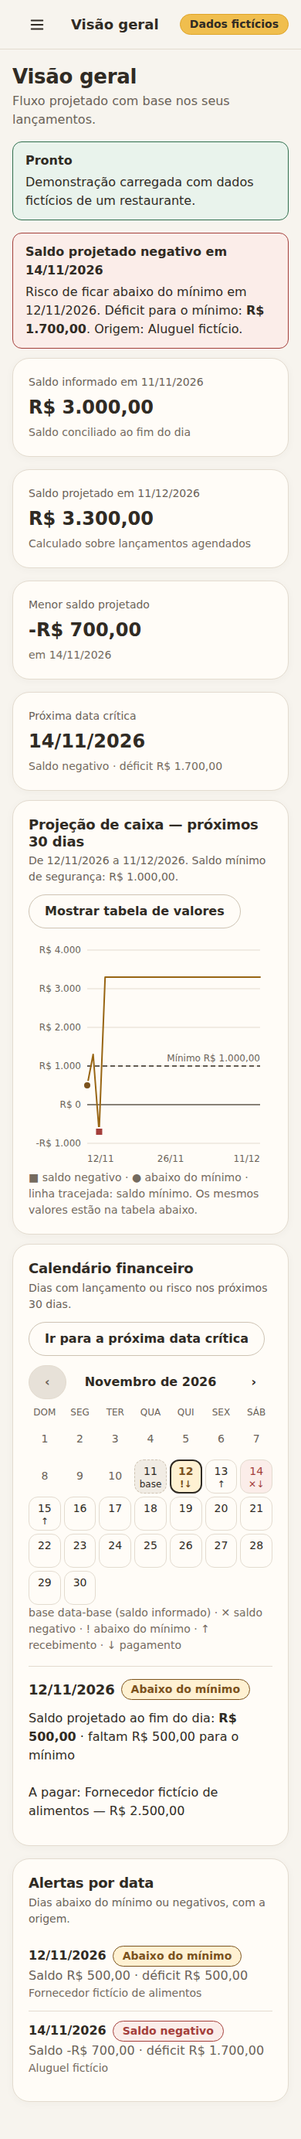
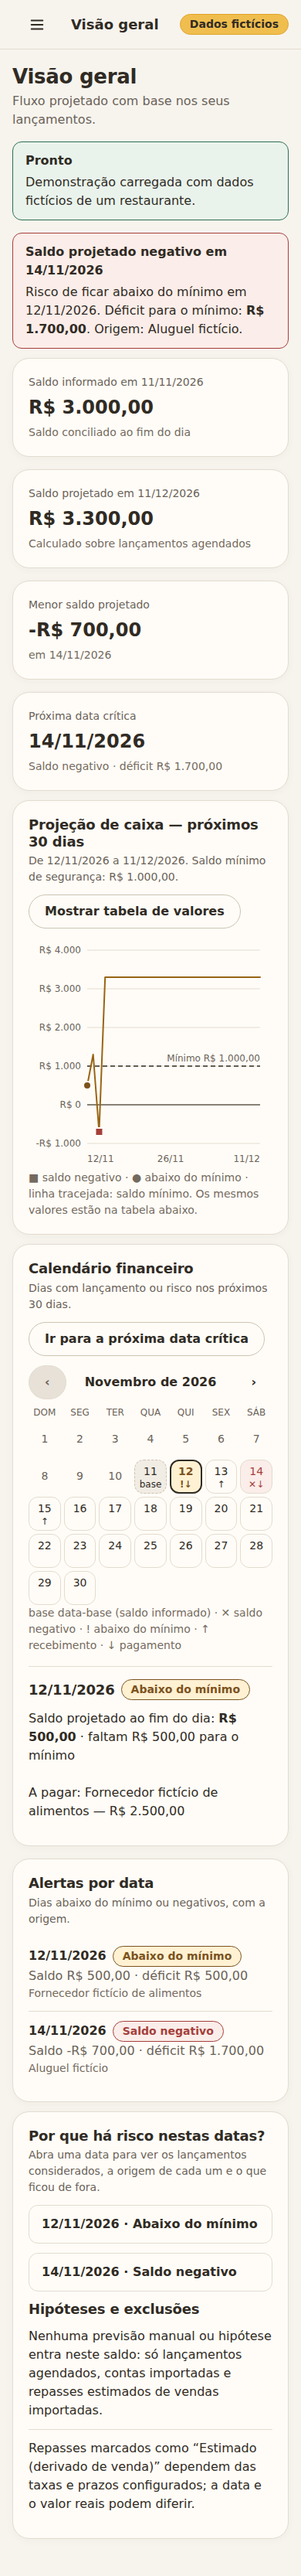
docs(evidencias): evidências e revisão visual da Sprint 2

diff --git a/docs/evidencias/s02.md b/docs/evidencias/s02.md
@@ -1,0 +1,47 @@
+# Evidências — Sprint 2 (vendas e recebimentos futuros)
+
+Todos os resultados vêm de execuções reais em 12/11/2026. "Declarado" = registro de quem executou; a verificação independente está no Git, no GitHub Actions e na reexecução dos comandos. O que não foi verificado consta como **não verificado**.
+
+**Ambiente:** VPS Ubuntu 24.04, Node 22, Docker 29.7.2, Playwright 1.65.0, Chromium headless. **Commit do código testado:** `500452e` (container `caixafuturo:500452e-dirty`; o sufixo `-dirty` decorre só das capturas PNG regeneradas pelo E2E, sem diferença em `src/`; o deploy final está registrado na seção 5).
+
+## 1. Decisão de produto (PEND-S02-001)
+O usuário decidiu em 12/11/2026 (ADR-0006): vínculo por coluna `referencia_venda`; par ambíguo conta só o importado; escopo 1:1 (parcelas e lotes = limitação documentada e sinalizada na UI). Detalhes e estados em [`ADR-0006`](../decisoes/0006-conciliacao-recebiveis.md); contratos `financeiro.md`, `importacao.md`, `previsoes.md` atualizados antes do código.
+
+## 2. Regressão e testes
+| Comando | Resultado |
+|---|---|
+| `npm run test:unit -- --run --coverage` | **16 arquivos, 363 testes passam** |
+| `npm run test:e2e` (build local) | **31/31 passam** (18 da S01 + 13 da S02) |
+| `E2E_BASE_URL=http://84.247.135.249:8084 E2E_EXPECT_INSECURE=1 npx playwright test` (container, IP público) | **31/31 passam**, `isSecureContext=false`, sem `crypto.subtle` |
+| `npx tsc --noEmit`, `npm run build` | OK |
+| `fluxo.py validar`, `tools/validar_fronteiras_tasks.py` | OK |
+
+**Cobertura (v8):** global **94,47% stmts · 88,56% branches · 92,48% funções · 95,96% linhas**. Código tocado pela S02 (19 arquivos, inclusive os modificados por inteiro: `domain/sales`, `domain/forecast`, `storage/salesRepository`, `validateSale`, `db`, `repository`, `csv`, `App`, `SalesPanel`, `SalesView`, `SettlementPanel`, `RiskExplanation`, `CashDashboard`, `ImportPreview`, `AppShell`, `salesDemo`): **95,33% stmts · 89,02% branches · 92,88% funções · 96,67% linhas**. Pior arquivo novo: `SettlementPanel` 91,0% stmts / 79,4% branches. Cobertura não prova correção: as contas dos testes foram feitas à mão (ver abaixo).
+
+**Testes escritos antes e vistos falhar** (módulo inexistente/ausente) em todas as tasks. **Verificações de mutação:** 1 em `importSales` (tirar o valor da assinatura de conflito derruba 2 testes) e 3 em `reconcile` (pendente soma, janela de 3 dias, decisão sobre venda já coberta: derrubam 4, 1 e 1 testes).
+
+**Erros que foram dos TESTES, não do app** (corrigidos no teste): conta à mão do débito (R$ 250,50 × 1,99% = 498 centavos, não 4.985); ordenação de vendas da mesma data por id-hash; V-1 a crédito D+30 cairia fora do horizonte de 30 dias; −700,00 + 73,51 + 153,62 = −472,87 (não −469,87); seletores `getByLabel('Dias')` por substring. **Achado real do app corrigido durante o trabalho:** a tabela de recebíveis ficava dominada por repasses históricos "Já no saldo inicial" (agora ocultos por padrão, com botão).
+
+**Instabilidade encontrada (S01, não relacionada às vendas):** 3 testes de `app.test.tsx` estouravam o timeout padrão de 5 s sob CPU disputada; `testTimeout: 20 s` os estabilizou (4 execuções simultâneas, 244/244). Um E2E da S01 falhou 1 vez em 31 execuções sem causa identificada na primeira rodada do dia (não reproduziu em 12 repetições).
+
+## 3. Funcionalidades verificadas
+- **Venda ≠ recebimento:** importar venda R$ 1.000,00 a crédito não altera o saldo; recebimento só na data de repasse, pelo líquido (E2E e unit).
+- **Importar duas vezes não duplica faturamento:** reimportar o mesmo CSV cria 0 vendas; mesmo identificador com valor diferente é conflito, sem sobrescrever.
+- **Taxa/prazo mudam data e valor do caixa:** crédito 3,99% D+30 → R$ 960,10 em 12/12 (fora dos 30 dias, saldo R$ 3.000,00); com 2,50% D+10 → R$ 975,00 em 22/11 e saldo R$ 3.975,00 a partir dessa data (conta independente: 100000 − 2500).
+- **Conciliação nas duas ordens (gate PEND-S02-001):** contas→vendas e vendas→contas dão exatamente os mesmos 30 saldos (E2E em contextos de navegador separados; valores conferidos por conta à mão: R$ 3.198,02 em 13/11; R$ 2.198,02 em 14/11; R$ 3.173,02 em 22/11 com **uma** disponibilidade de R$ 975,00). Reimportar ambos os arquivos e recarregar a página não altera nada.
+- **Ambiguidade:** conta sem referência + venda próxima → "Conciliação pendente", só a importada soma (R$ 3.975,00); "Conta independente de vendas" → R$ 4.950,00; "Desfazer decisão" e "Vincular a V-1" → R$ 3.975,00; persiste após recarregar. Referência enviada depois atualiza a conta existente sem duplicar.
+- **Lote (`V-1|V-2`) e parcelas:** sinalizados "não suportado" na tabela e em aviso fixo; vale a conta importada (R$ 4.100,00 = 3.000 + 1.100 em 22/11).
+- **Demonstração:** a demo da S01 segue 12/11 R$ 500 · 13/11 R$ 1.300 · 14/11 −R$ 700 · 15/11 R$ 3.300. Com as 84 vendas fictícias (R$ 14.580,00 brutos; média R$ 520,71/dia = 14.580,00/28; tendência estável) as 2 contas sem referência deixam 6 repasses pendentes e a projeção não muda; após decidir "independente" nas duas, 12/11 = R$ 573,51 (500,00 + 75,00 − 1,99%) e 14/11 = −R$ 472,87.
+- **Série curta:** 10 dias → aviso "Série curta: 10 dias de histórico"; < 7 dias com venda → "Histórico insuficiente" e nenhuma previsão; 28 dias → sem aviso.
+- **Projeção manual:** sempre "Hipótese manual — não é previsão validada" por linha, com aviso "Isto é uma hipótese", e não altera o saldo projetado; valor negativo recusado.
+- **Explicação de risco:** cada data de risco na Visão geral abre saldo de abertura, lançamentos (descrição, valor, origem: Manual / Importado / Demonstração / Estimado (derivado de venda)), saldo de fechamento, déficit; mais "Hipóteses e exclusões" e a lista "Não incluídos no saldo".
+- **Migração IndexedDB v1→v2:** banco v1 populado (configuração, 3 lançamentos incluindo liquidado, tipo do conjunto) abre em v2 sem perda; stores `sales` e `reconciliation` criadas; reabrir é idempotente (testado com `fake-indexeddb`). **Não verificado:** migração em IndexedDB real de um navegador com dados reais da S01 (o E2E sempre parte de contexto novo).
+- **Acessibilidade básica (Chromium):** todos os botões, campos e `summary` da nova vista têm nome acessível e altura ≥ 44 px nos 3 viewports; resolução de pendência e abertura da explicação por teclado (Enter); `<details>` nativos, estados por texto (não só cor).
+
+## 4. Limitações e itens não verificados
+1. **Alcance externo à porta 8084 (fora da VPS): não verificado** (os testes partiram da própria VPS). UFW não foi alterado.
+2. Só Chromium; Firefox, Safari/iOS e dispositivos reais: **não verificados**. Sem axe/Lighthouse nem leitor de tela: **não verificados**; contraste herdado dos tokens validados na S01, não medido nas novas telas.
+3. Parcelas, lotes, estornos, pagamento parcial, antecipação, dias úteis/feriados: **não suportados** (sinalizados). Prazo é em dias corridos; padrões de taxa/prazo são ilustrativos. Previsão não tem backtesting nem faixas (S03).
+4. Achados visuais da S01: **A** (título da topbar) agravado pelo rótulo mais longo ("Vendas e r…" a 390 px; o `h1` da página mostra o nome inteiro). **B** (tabelas largas rolam dentro do cartão no mobile): a tabela de recebíveis tem 9 colunas e rola internamente. **C**: sem estouro horizontal em 390 e 320 px; a 195 px a vista Vendas estoura (238 px) e a Visão geral também (218 px), como já documentado. Ver [`s02-visual.md`](s02-visual.md).
+5. HTTP por IP não é adequado a dados financeiros reais; IndexedDB não é backup.
+6. A S02 **não** está aprovada; a S03 não foi iniciada.

diff --git a/docs/evidencias/s02-visual.md b/docs/evidencias/s02-visual.md
@@ -1,0 +1,21 @@
+# Revisão visual — Sprint 2 (Chromium real)
+
+Capturas geradas pelo E2E (`tests/e2e/sales-flow.spec.ts`) em 12/11/2026 em [`capturas/`](capturas): `mobile-vendas.png` (390×844), `tablet-vendas.png` (768×1024), `desktop-vendas.png` (1440×900), `*-visao-geral-s02.png` (Visão geral com a explicação de riscos), `e2e-s02-conciliado.png`, `e2e-s02-pendente.png`, `e2e-s02-demo-vendas.png`, `e2e-s02-explicacao-risco.png`, `e2e-s02-vendas-regras.png`.
+
+## Verificado com asserções (não só visualmente)
+- Sem rolagem horizontal da página em 390, 768 e 1440 px nas vistas **Vendas e recebimentos** e **Visão geral** (com 84 vendas); também em 320 px (medido contra o container).
+- Zero erros de console e zero `pageerror` nos três viewports.
+- As três áreas aparecem na ordem **Faturamento bruto → Recebimentos previstos líquidos → Saldo projetado**, cada uma com `h2`.
+- Alvos de toque ≥ 44 px e nomes acessíveis em todos os controles visíveis; foco e teclado nos fluxos de pendência e explicação.
+
+## Observado nas capturas (revisão manual por quem executou)
+- Tema creme/areia/grafite/dourado da S01 preservado; cartões, selos e alertas reutilizam os mesmos componentes. Situação do recebível sempre em **texto** (Derivado / Conciliado / Conciliação pendente / Lote — não suportado / Parcelas — não suportado / Já no saldo inicial), nunca só cor.
+- Hipótese manual aparece em alerta de aviso e a coluna "Natureza" repete o rótulo em cada linha.
+- Mobile: cartões de indicadores empilham; tabelas rolam dentro do cartão com a primeira coluna fixa; título da topbar trunca ("Vendas e r…").
+
+## Problemas e limites (não escondidos)
+- A vista é longa (≈ 8.700 px no mobile com 84 vendas): faturamento por dia e regras de repasse ficam abaixo da dobra. Sem navegação por âncoras.
+- A tabela de recebíveis tem 9 colunas; em 390 px exige rolagem horizontal **interna** (achado B).
+- Sem ilustrações novas nesta sprint (o desenho original discreto ficou só no onboarding/marca da S01).
+- 195 px (zoom extremo): estouro horizontal (achado C da S01), agora também na vista nova.
+- Não verificado: Firefox/Safari, dispositivos reais, leitor de tela, contraste medido na página renderizada, modo escuro (não existe).
